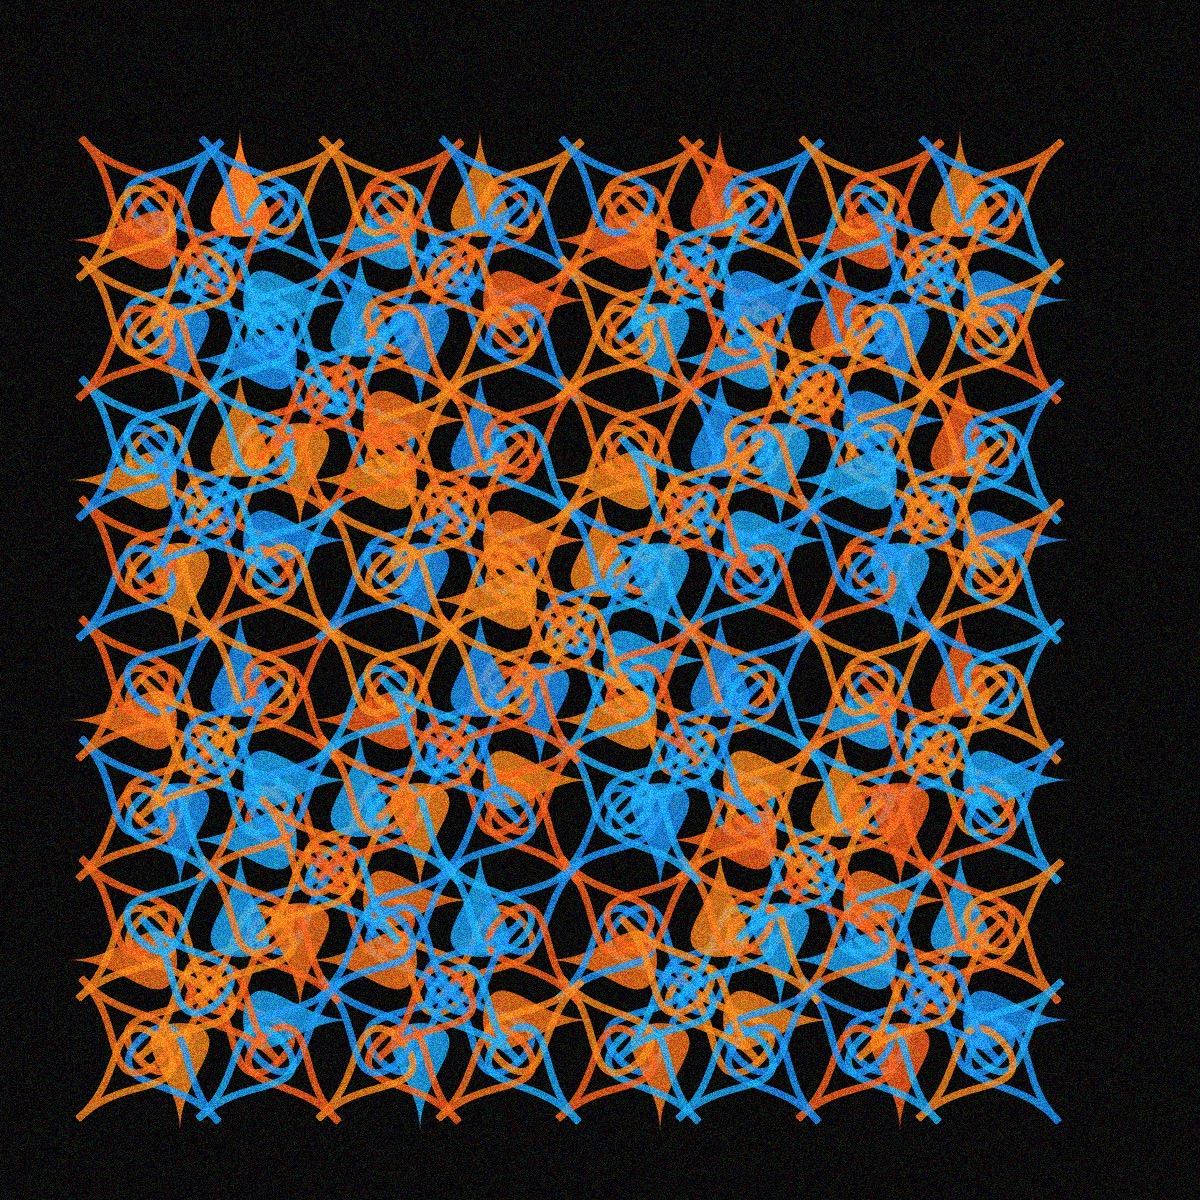
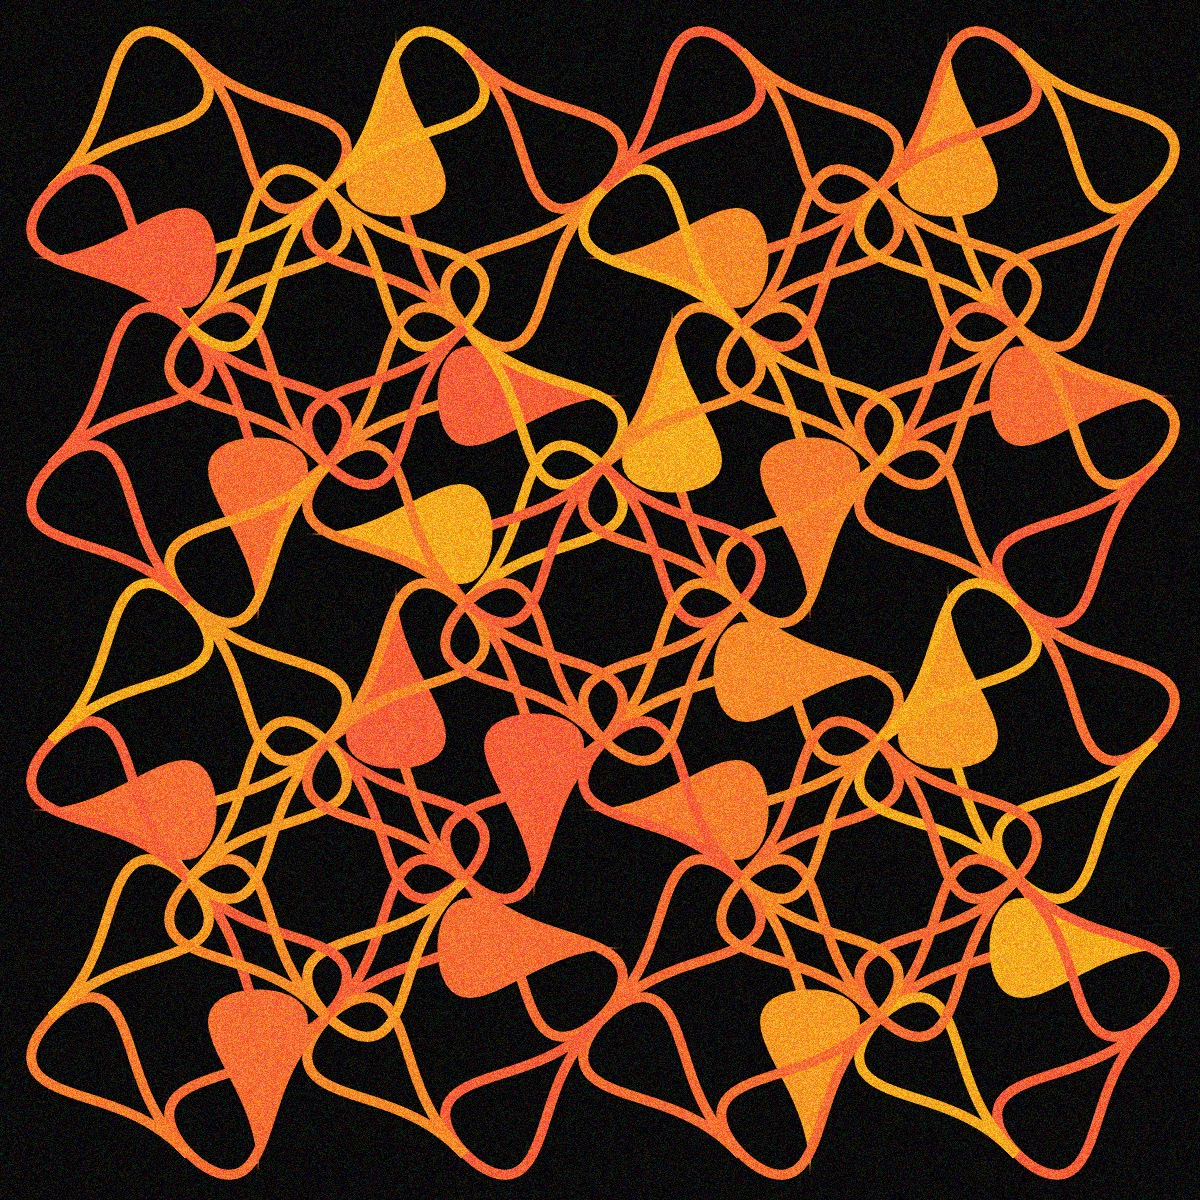
update some images and url sketch

diff --git a/color_palette_from_url/sketch.js b/color_palette_from_url/sketch.js
@@ -1,6 +1,10 @@
 // L-system rules mostly from Paul Bourke
 // https://paulbourke.net/fractals/lsys/
 
+// Basic code from:
+// https://natureofcode.com/fractals/
+// https://thecodingtrain.com/challenges/16-l-system-fractal-trees
+
 let level; // fractal level
 let length; // step length
 let axiom;
@@ -98,7 +102,7 @@ let blabel;
 let mlabel;
 let nlabel;
 let n1label, n2label, n3label;
-let rotate2label;
+let rotateShapelabel;
 
 // Color palette variables
 let palette;
@@ -785,7 +789,7 @@ function pickShape() {
       selectedShape.addPoints();
       break;
     case "quadrifolium":
-      selectedShape = new Quadrifolium(0, 0, length * shapeScale, a);
+      selectedShape = new Quadrifolium(0, 0, length * shapeScale, shapeAngle);
       selectedShape.addPoints();
       break;
     case "quadrilateral":
@@ -975,9 +979,9 @@ function turtle() {
       }
       pop();
     } else if (current == "(") {
-      angle -= radians(0.1);
+      angle -= radians(1);
     } else if (current == ")") {
-      angle += radians(0.1);
+      angle += radians(1);
     } else if (current == "{") {
       beginShape();
     } else if (current == "}") {

diff --git a/color_palette_from_url/shapes/quadrifolium.js b/color_palette_from_url/shapes/quadrifolium.js
@@ -1,11 +1,12 @@
 // https://mathcurve.com/courbes2d.gb/deltoid/deltoid.shtml
 
 class Quadrifolium {
-  constructor(x, y, r) {
+  constructor(x, y, r, angle) {
     this.x = x;
     this.y = y;
     this.r = r;
     this.a = 1;
+    this.angle = angle;
     this.points = [];
   }
 
@@ -19,6 +20,7 @@ class Quadrifolium {
   show() {
     push();
     translate(this.x, this.y);
+    rotate(this.angle);
     beginShape();
     for (let p of this.points) {
       vertex(p.x, p.y);

diff --git a/Example Use-WIP/rule-set-examples/crystal.md b/Example Use-WIP/rule-set-examples/crystal.md
@@ -1,0 +1,31 @@
+# Crystal
+
+<p align="center"><img src="shape_images/crystal.jpg" alt="crystal" width="500px"></p>
+
+## 🌄 Gallery
+
+<!-- IMAGE-LIST:START - Do not remove or modify this section -->
+<!-- prettier-ignore-start -->
+<!-- markdownlint-disable -->
+<table>
+  <tbody>
+    <tr>
+     <td align="center"><a href=""> <img class="img" src="assets/crystal/crystal.jpg" alt="" style="vertical-align:top;" width="500" /><br /><sub><b><br/></b></sub></a></td>
+     <td align="center"><a href=""> <img class="img" src="assets/astroid/krishna_anklet.jpg" alt="" style=" display: block;
+    margin-left: auto;
+    margin-right: auto;" width="500" /><br /><sub><b><br/></b></sub></a></td>
+    </tr>
+    <tr>
+     <td align="center"><a href=""> <img class="img" src="assets/astroid/mango_leaf.jpg" alt="" style="vertical-align:top;" width="500" /><br /><sub><b><br/></b></sub></a></td>
+     <td align="center"><a href=""> <img class="img" src="assets/astroid/snake_kolam.jpg" alt="" style=" display: block;
+    margin-left: auto;
+    margin-right: auto;" width="500" /><br /><sub><b><br/></b></sub></a></td>
+</tr>
+ 
+ </tbody>
+</table>
+
+<!-- markdownlint-restore -->
+<!-- prettier-ignore-end -->
+
+<!-- IMAGE-LIST:END -->
